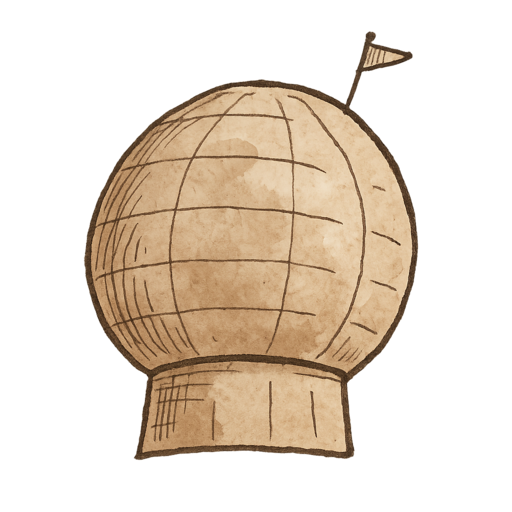
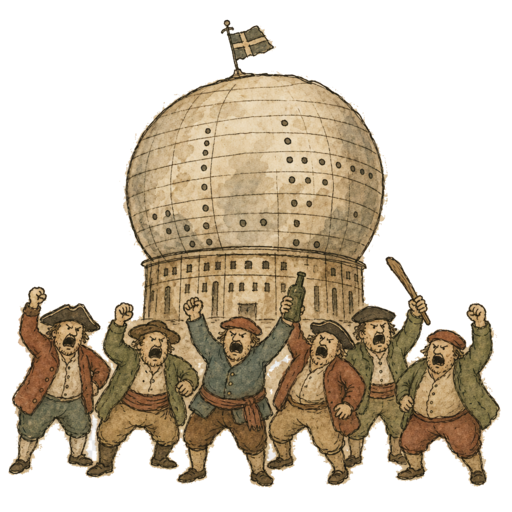
WebGL: bredare tolerans i fake-ö-filter (0.01° ≈ 1km)
Strict equality (lat === bbox.minLat) fångade bara 29 av 2581 punkter
(1%) på coastlineIslands[306] pga float-precision/kustlinje-sampling
nära bbox-kanten. Med 0.01°-tolerans fångas 263 punkter (10%) → över
5%-tröskeln → fake-ön filtreras bort.

diff --git a/scripts/generate-map-assets.js b/scripts/generate-map-assets.js
@@ -181,7 +181,7 @@ const ASSETS = [
   {
     file: 'globen.png',
     prompt:
-      'A naïve hand-drawn sketch of Globen (the Ericsson Globe arena) in Stockholm, Sweden, for an 18th-century travel map by an unskilled amateur cartographer who has heard of this strange round building but cannot draw it well. Quill pen and iron-gall ink with muted grey-brown watercolour wash spilling outside the outlines. A large lopsided sphere or dome — not quite round, more potato-shaped or egg-shaped — with wobbly horizontal panel lines drawn unevenly around it, a crooked cylindrical base or pedestal underneath drawn too short, maybe a tiny stick-figure flag or antenna poking off at a wrong angle. The proportions are all wrong, perspective broken, the globe leans slightly. Looks earnest but clumsy — like a mapmaker trying to sketch a mysterious round landmark. CRITICAL FRAMING: entire building fits inside the image with generous margin on all sides, nothing cropped. Period sepia palette, aged and oxidised. Isolated landmark only.',
+      'A naïve hand-drawn sketch of Globen (the Ericsson Globe arena) in Stockholm, Sweden, for an 18th-century travel map by an unskilled amateur cartographer who has heard of this strange round building but cannot draw it well. Quill pen and iron-gall ink with muted grey-brown watercolour wash spilling outside the outlines. A large lopsided sphere or dome — not quite round, more potato-shaped — with wobbly horizontal panel lines, a crooked cylindrical base or pedestal underneath, maybe a tiny stick-figure flag poking off at a wrong angle. CRITICAL — HOOLIGANS: a rowdy crowd of five or six BIG chunky hooligans gathered around the base of Globen, drawn in the EXACT same simple folk-art style as highway robbers on a map — thick quill outlines, flat muted rust-red and olive-green washes, angry scowling dot-eyes, open shouting mouths, tricorn or flat caps, raised fists, one waving a crooked bottle, one with a bent club or stick, lopsided sausage bodies. Each hooligan should be LARGE — roughly half the height of the globe sphere, as tall as the pedestal base or taller, chunky and prominent in the composition, not tiny stick figures. They mob and crowd the pedestal, taking up the whole lower third of the image. CRITICAL STYLE: as simple and flat as robbers.png — bold outlines, flat colour blobs, no cross-hatching, no realistic crowd, no modern photo style. Proportions all wrong, perspective broken. CRITICAL FRAMING: entire scene (globe + hooligans) fits inside the image with generous transparent margin on all sides, nothing cropped. Period sepia palette, aged and oxidised. Isolated map decoration only.',
   },
   {
     file: 'arrow-down.png',

diff --git a/src/components/webgl-map/decor-positions.js b/src/components/webgl-map/decor-positions.js
@@ -4,11 +4,10 @@
 
 // Statiska lat/lon (passa map.js exakt)
 export const DECOR_LL = {
-  // Sjö-decor (boat-fasen)
+  // Sjö-decor (båt-/hamn-fasen)
   kraken:     [17.529805, 59.294257],
-  octopus:    [17.771634, 59.221499],
   mermaid:    [17.584792, 59.295477],
-  seaMonster: [17.463101, 59.301755],
+  seaMonster: [17.463101, 59.306755],
   whale1:     [17.792912, 59.262066],
   decorShip:  [18.174623, 59.329939],
   storm:      [17.42,     59.36],
@@ -17,6 +16,7 @@ export const DECOR_LL = {
 
   // Land-figurer (drive-fasen, statiska). Keys = filename för att undvika
   // missförstånd när vi swapper bilder.
+  octopus:    [17.771634, 59.221499],
   pirateOgre: [17.940604, 59.28],
   robbers:    [17.604010, 59.190343],
   tree2:      [17.524204, 59.211292],
@@ -32,7 +32,7 @@ export const DECOR_LL = {
 
   // Dragons — projicerade direkt
   dragon0: [17.92, 59.31],
-  dragon1: [17.65, 59.34],
+  dragon1: [17.65, 59.31],
 }
 
 // Sprite-storlekar — EXAKT matchande map.js decorImage size-argument
@@ -46,14 +46,14 @@ export const DECOR_SIZE = {
   village1:   75,
   village2:   70,
   village3:  130,
-  globen:     70,
+  globen:     84,   // +20% från 70
   skull:      90,   // map.js skull(): width=90 height=90
   robbers:   110,
   dragon:     90,   // dragonWarning: width=90
   kraken:     68,   // kraken(): decorImage(..., 90) — krymp 25% från original
   octopus:    80,   // octopus(): decorImage(..., 80)
   mermaid:    50,   // mermaid(): decorImage(..., 50)
-  seaMonster: 60,   // seaMonster(): decorImage(..., 60)
+  seaMonster: 36,   // 40% mindre än original 60
   whale:      60,   // whale(): width=60 height=60 (half=30)
   decorShip:  65,   // halverat från 130
   storm:     180,

diff --git a/src/components/webgl-map/scene.js b/src/components/webgl-map/scene.js
@@ -112,6 +112,7 @@ export async function buildScene() {
   // coastlineIslands vars outer ring har > 5 % av sina vertices EXAKT på
   // någon bbox-edge. Verkliga öar har enstaka edge-träffar; closure-
   // artefakter har dussintals/hundratals i rad.
+  const EDGE_TOL = 0.01  // grader (~1 km) — float-precision-tolerans
   const cleanCoastlineIslands = coastlineIslands.filter((f) => {
     if (!f) return true
     const polys = f.type === 'Polygon' ? [f.coordinates] : f.type === 'MultiPolygon' ? f.coordinates : []
@@ -120,7 +121,10 @@ export async function buildScene() {
       if (!outer || outer.length < 3) continue
       let onEdge = 0
       for (const [lon, lat] of outer) {
-        if (lat === bbox.minLat || lat === bbox.maxLat || lon === bbox.minLon || lon === bbox.maxLon) onEdge++
+        if (Math.abs(lat - bbox.minLat) < EDGE_TOL ||
+            Math.abs(lat - bbox.maxLat) < EDGE_TOL ||
+            Math.abs(lon - bbox.minLon) < EDGE_TOL ||
+            Math.abs(lon - bbox.maxLon) < EDGE_TOL) onEdge++
       }
       if (onEdge / outer.length > 0.05) return false
     }

diff --git a/src/components/webgl-map/reveal-timeline.js b/src/components/webgl-map/reveal-timeline.js
@@ -216,6 +216,7 @@ export function buildRevealTimeline(scene, camera, tiltStage) {
   reveal(sprites.dragon0,  12.6,  0.7, 0.3, 0.85)
   reveal(sprites.pirateOgre,13.3, 0.6, 0.4)
   reveal(sprites.village1, 14.2,  0.9, 0.3)
+  reveal(sprites.octopus,  15,  1,   0.2)
   reveal(sprites.skull,    15.5,  0.7, 0.3)
   reveal(sprites.robbers,  17.7,  0.8, 0.3)
   reveal(sprites.tree2,    19.4,  0.6, 0.4)
@@ -268,7 +269,6 @@ export function buildRevealTimeline(scene, camera, tiltStage) {
   // new_t = 34 + (orig_t - 38) × 17/19
   reveal(sprites.mermaid, 33.8, 0.9, 0.3)
   reveal(sprites.kraken,  41.9, 1,   0.2)
-  reveal(sprites.octopus, 50.1, 1,   0.2)
 
   // 51–59s: ovanan-sekvens efter båtens ankomst (t=51)
   tl.to(camera, {

diff --git a/src/styles/webgl.css b/src/styles/webgl.css
@@ -97,21 +97,6 @@ body.webgl-revealed .webgl-content {
   opacity: 1;
 }
 
-.webgl-hud__title {
-  position: fixed;
-  top: max(0.5rem, env(safe-area-inset-top));
-  left: 1rem;
-  z-index: 50;
-  font-family: var(--font-display);
-  font-size: 0.7rem;
-  letter-spacing: 0.2em;
-  color: var(--paper);
-  background: rgba(0, 0, 0, 0.5);
-  padding: 0.3rem 0.5rem;
-  border-radius: 0.25rem;
-  opacity: 0.5;
-}
-
 .webgl-hud__skip {
   position: fixed;
   bottom: max(1.5rem, env(safe-area-inset-bottom));

diff --git a/src/pages/webgl.js b/src/pages/webgl.js
@@ -55,7 +55,6 @@ export async function renderWebgl(app) {
         </section>
       </main>
       <button id="webgl-skip" class="webgl-hud__skip">Hoppa över ↷</button>
-      <div class="webgl-hud__title">WebGL</div>
     </div>
   `
 

diff --git a/AGENTS.md b/AGENTS.md
@@ -82,28 +82,37 @@ RSVP visar en delmängd via `RSVP_PRACTICAL_KEYS` i `practical-info.js`.
 
 **När du lägger till ny copy:** skapa ny `key` i `practical_info_seed.sql`, hämta via `fetchPracticalMap()`, rendera med `formatPracticalMarkdown()`. Hårdkoda inte placeholder-strängar i JSX/HTML om de ska kunna redigeras i admin.
 
-## WebGL-karta (`src/components/webgl-map/`)
+## WebGL-karta (`src/components/webgl-map/`) — enda källan för kartändringar
+
+Alla kartrelaterade uppgifter (positioner, reveal-timing, kamera, dekorationer, ambient) ska göras **här**. Detta är produktionen som gäster ser på `/`.
 
 | Fil | Roll |
 |-----|------|
 | `index.js` | `mountWebglMap()` / `unmountWebglMap()` — Pixi `Application`, resize, reveal-loop |
 | `scene.js` | Bygger statisk scen från `map-data.json` + dekorations-PNG:er |
-| `camera.js` | Zoom/pan/rotation — spegel av `cam` + `applyCam()` i `map.js` |
+| `camera.js` | Zoom/pan/rotation |
 | `tilt-stage.js` | 3D-tilt via `PerspectiveMesh` + `RenderTexture` (renderar `scene.root` per frame) |
 | `reveal-timeline.js` | GSAP reveal (~68 s) mot Pixi `DisplayObject`s |
 | `ambient.js` | Loopande tweens efter reveal |
 | `routes.js` | Bil- och båtrutter med marching-ants |
-| `projection.js` / `decor-positions.js` | Lat/lon → scenkoordinater |
+| `projection.js` / `decor-positions.js` | Lat/lon → scenkoordinater; **`decor-positions.js` (`DECOR_LL`, `DECOR_SIZE`) är sanningen för dekorationspositioner** |
 
 CSS för overlay/scroll-lås: `src/styles/webgl.css` (`body.webgl-revealing` / `webgl-revealed`).
 
+## Legacy-karta (`/old`) — rör inte
+
+`src/components/map.js`, `src/pages/home.js` och tillhörande SVG-CSS (`src/styles/map.css` m.m.) är kvar som historisk fallback/jämförelse. **Ändra dem inte** när användaren ber om kartjusteringar — uppdatera bara `src/components/webgl-map/`.
+
+**Gör inte:**
+
+- Synka positioner, reveal-timing eller kamerabeteende till legacy bara för att "hålla dem lika".
+- Refaktorera, fixa eller förbättra legacy-kartan om det inte uttryckligen efterfrågas (t.ex. "fixa `/old` också").
+
+**Undantag:** Om användaren uttryckligen pekar på `/old` eller `map.js` — då får du röra legacy-filerna.
+
 ## Reveal-timing
 
-**WebGL (produktion):** inline `reveal()`-anrop i `reveal-timeline.js`.
-
-**Legacy SVG (`/old`):** konfig-arrayer i `map.js` (`driveReveals`, `harborReveals`, `boatReveals`, `endReveals`).
-
-Ändra timing i **båda** om beteendet ska matcha.
+Inline `reveal()`-anrop i `reveal-timeline.js`. Legacy har motsvarande konfig i `map.js` — ignorera den om inget annat sägs.
 
 ## Performance-fällor — WebGL (lärt ut hård väg)
 
@@ -113,9 +122,9 @@ CSS för overlay/scroll-lås: `src/styles/webgl.css` (`body.webgl-revealing` / `
 - **Kameran uppdateras via `camera.apply()`** efter GSAP `onUpdate` — inte direkt på container-transform utanför `Camera`.
 - **Visuell kvalitet > frame rate.** Sajten får vara tung; rör inte effekter/ambient-tweens "för perfens skull" utan att fråga.
 
-## Performance-fällor — legacy SVG (`/old`)
+## Performance-fällor — legacy SVG (`/old`, referens only)
 
-Behålls för fallback/jämförelse. Se `src/components/map.js`:
+Behålls oförändrad för fallback/jämförelse. Agents redigerar inte dessa filer. Referens om legacy beteende behövs — se `src/components/map.js`:
 
 - Zoom via `viewBox` per frame; rotation via inner `<g class="map-rotor">`.
 - Ingen CSS `filter: drop-shadow()` på kartelement — bakas in i PNG eller via SVG `<feDropShadow>`.
